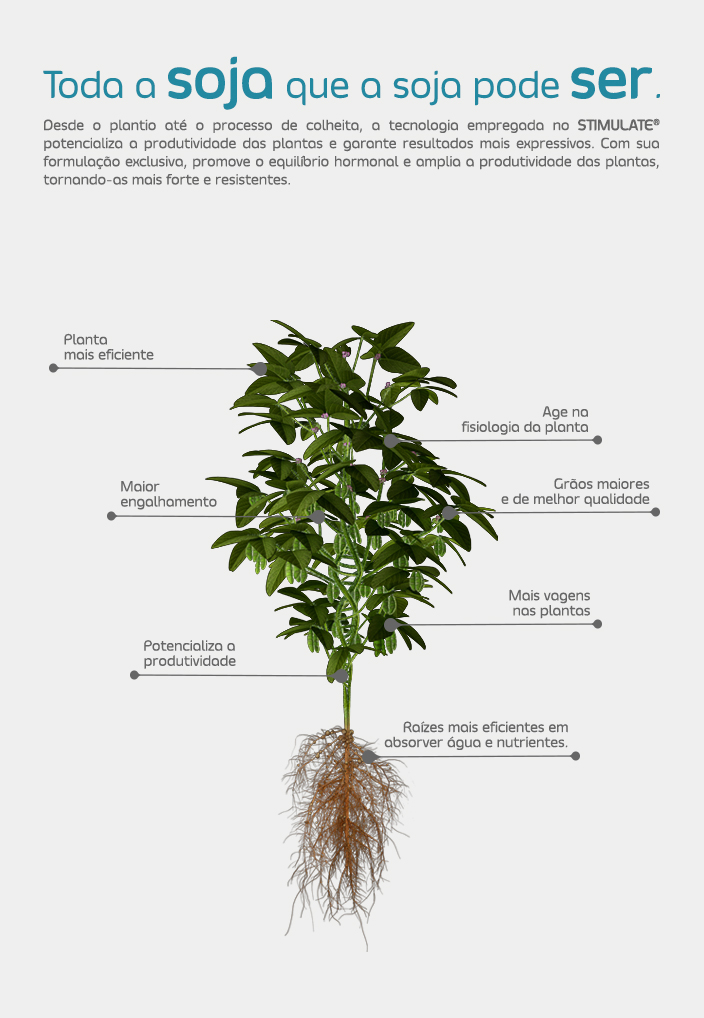
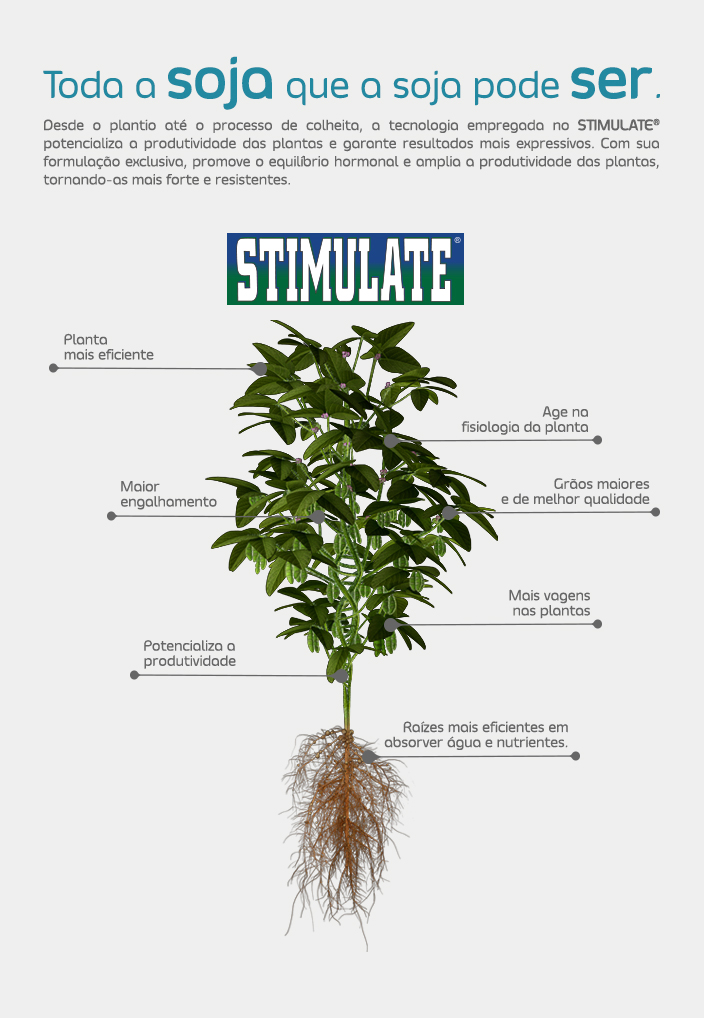
ajustes na landpage

Changed region(s): [[0.3125, 0.2132, 0.6562, 0.3045]]

diff --git a/app/styles/landing-01.css b/app/styles/landing-01.css
@@ -30,7 +30,7 @@
 	padding: 10px 80px 10px 20px;
 	background: #999999;
 	color: #fff;
-	font-size: 3em;
+	font-size: 2em;
 	font-weight: 400;
 	line-height: 100%;
 	margin-bottom: 20px;
